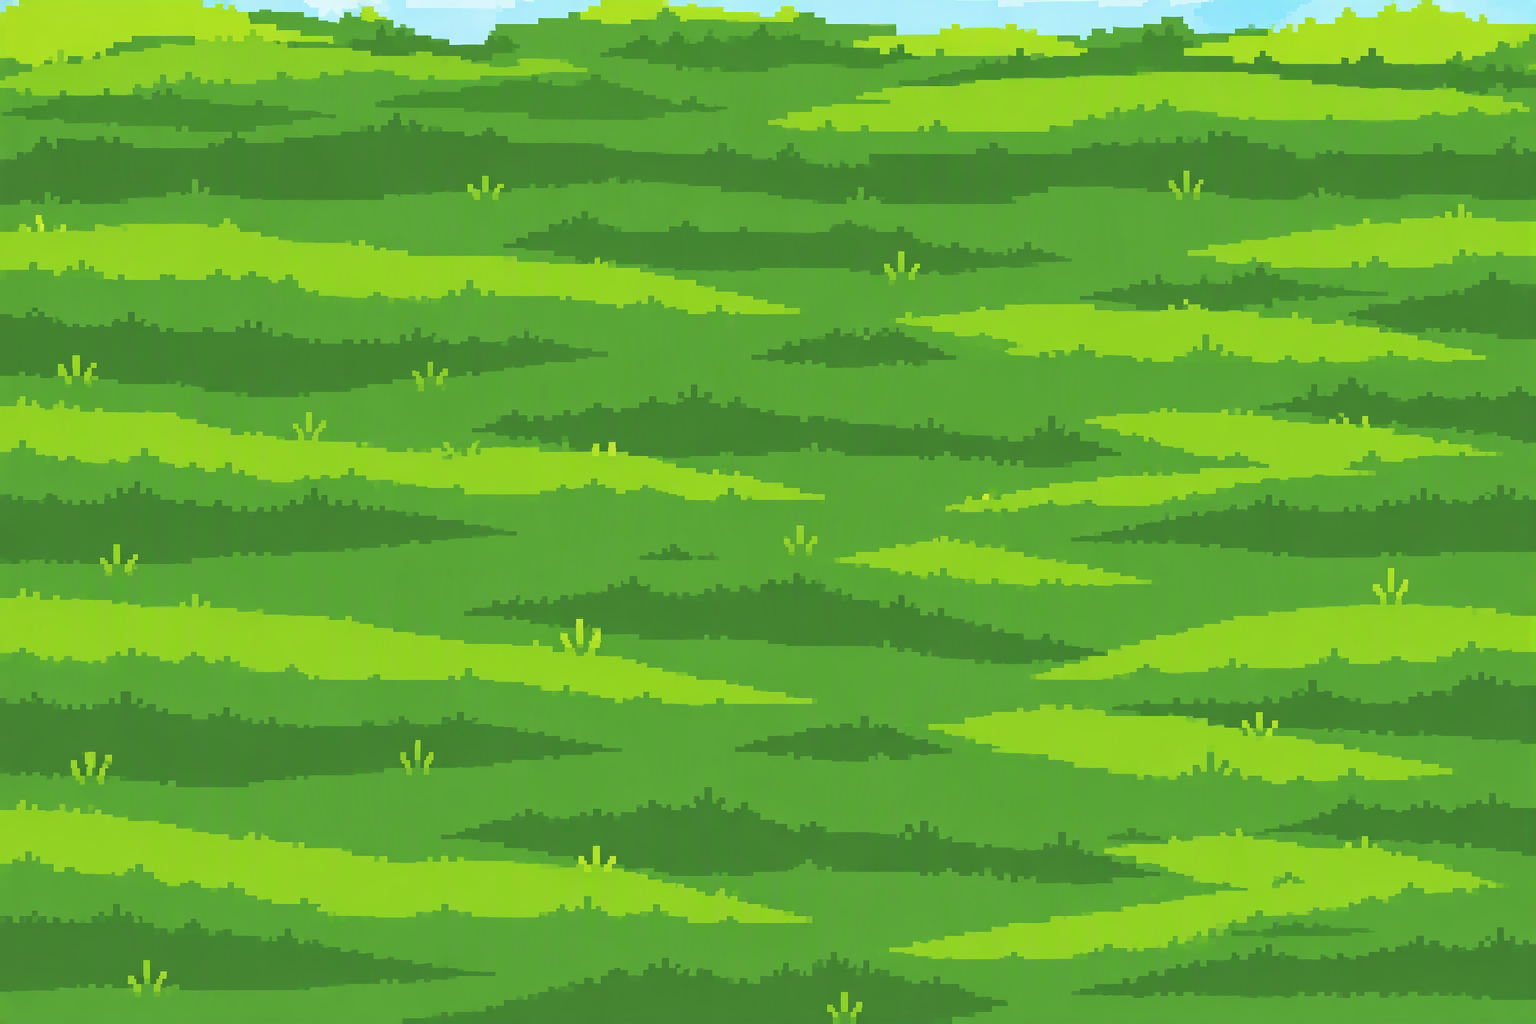
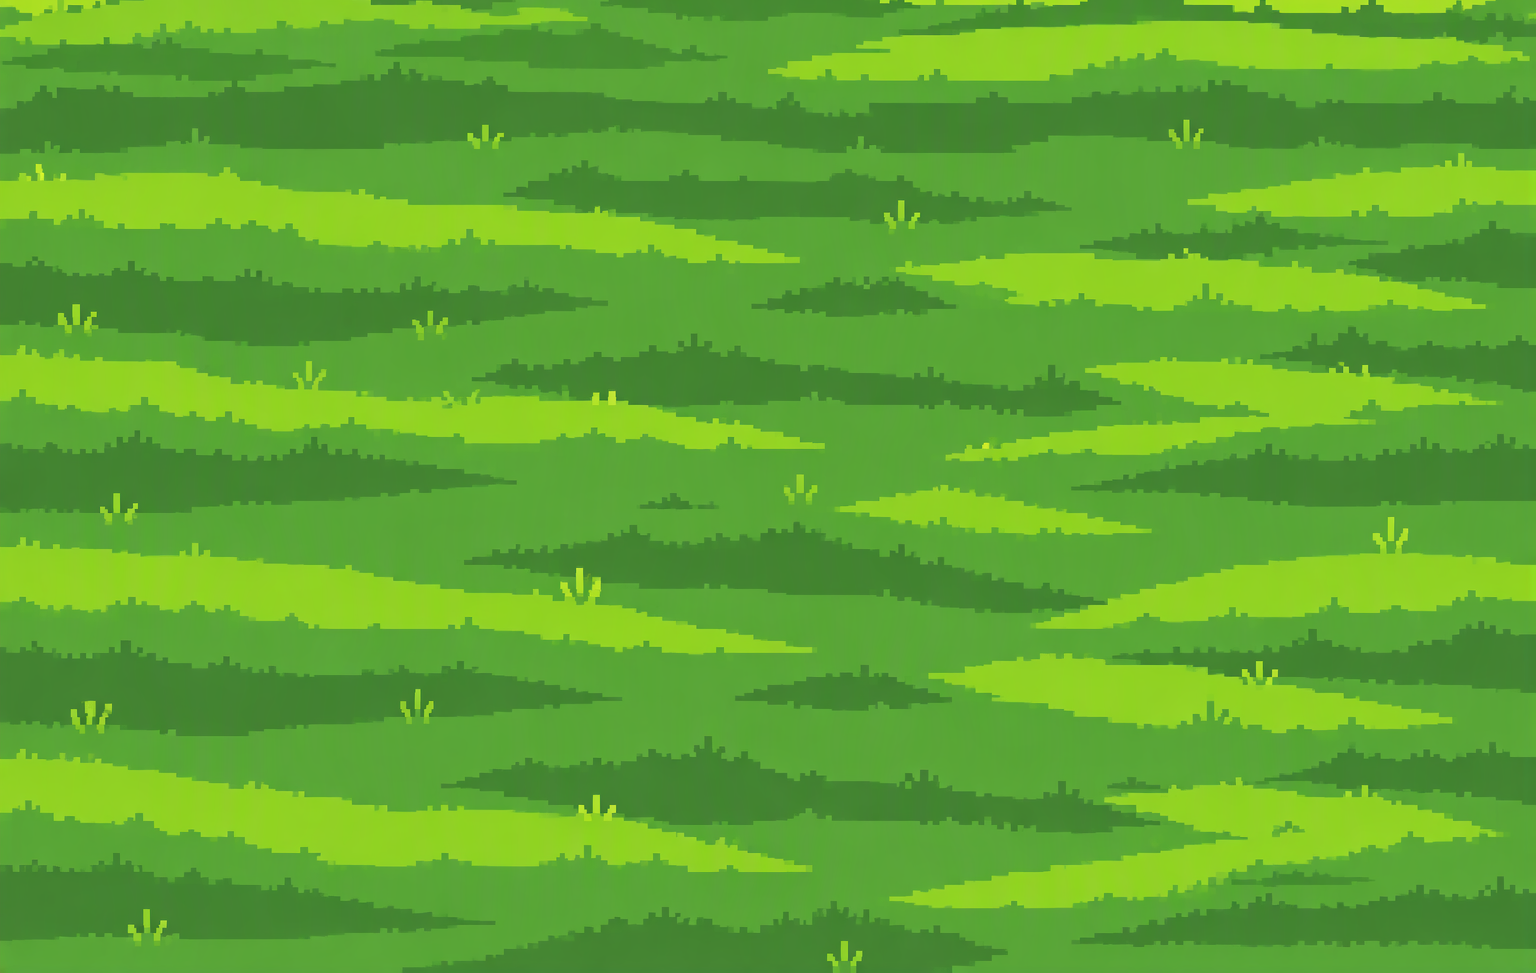
about section done + added profile pic assets

diff --git a/style.css b/style.css
@@ -43,7 +43,7 @@ body {
 
 nav {
     position: fixed;
-    top: 2rem;
+    top: 1.5rem;
     left: 50%;
     transform: translateX(-50%);
 
@@ -116,7 +116,78 @@ nav .logo i {
     color: var(--dark-green);
 }
 
-#hero .hero-desc-text p span.bold {
+span.bold {
+    font-family: var(--heading-font);
     font-weight: 600;
     letter-spacing: 1px;
+}
+
+
+
+
+
+.title {
+    position: relative;
+    top: 1rem;
+    margin: 3rem;
+    /* background-color: cornflowerblue; */
+    text-align: center;
+    font-size: 3rem;
+    font-family: var(--heading-font);
+    color: var(--brown);
+}
+
+
+
+#about {
+    width: 100vw;
+    height: 100vh;
+
+    background-color: var(--light-green);
+    background: url('./assets/grass_new.png');
+
+    padding: 2rem;
+}
+
+#about .about-content {
+    width: 75%;
+    margin: 0 auto;
+    margin-top: 3rem;
+    /* background-color: cornflowerblue; */
+    display: flex;
+    flex-direction: column;
+    gap: 2rem;
+
+    font-size: 1.2rem;
+    color: var(--dark-green);
+}
+
+#about .about-content span.bold {
+    color: var(--brown);
+    font-size: 1.3rem;
+}
+
+#about .about-content .top-row {
+    display: flex;
+    align-items: center;
+    justify-content: space-evenly;
+}
+
+#about .about-content .top-row .top-row-content p {
+    display: flex;
+    flex-direction: column;
+    margin: 0.75rem;
+}
+
+#about .about-content .top-row .profile-img {
+    width: 17rem;
+    height: 17rem;
+    border-radius: 50%;
+    overflow: hidden;
+    border: 5px dashed var(--brown);
+}
+
+#about .about-content .top-row .profile-img img {
+    height: 100%;
+    width: 100%;
 }

diff --git a/index.html b/index.html
@@ -39,7 +39,34 @@
         </section>
 
         <!-- about -->
-        <section id="about"></section>
+        <section id="about">
+            <div class="title">
+                <h1>About</h1>
+            </div>
+
+            <div class="about-content">
+                <div class="top-row">
+                    <div class="profile-img">
+                        <img src="./assets/profile.png" alt="profile image">
+                    </div>
+                    <div class="top-row-content">
+                        <p><span class="bold">Name:</span> Strawberry Skeleton</p>
+                        <p><span class="bold">Age:</span> 18</p>
+                        <p><span class="bold">Status:</span> Year 1 @ CUHK CSE</p>
+                        <p><span class="bold">Interests:</span> Coding / Playing / something</p>
+                    </div>
+                </div>
+
+                <div class="bottom-row">
+                    <p>
+                        <span class="bold">Ultimate Goal:</span>
+                        <br>
+                        Lorem ipsum dolor, sit amet consectetur adipisicing elit. Nam hic exercitationem unde veritatis natus quas repellat deleniti provident. Asperiores similique quibusdam maiores, enim quis ducimus.
+                        Lorem ipsum dolor sit amet consectetur, adipisicing elit. Magni rem, libero dolor hic explicabo iure.
+                    </p>
+                </div>
+            </div>
+        </section>
 
         <!-- map -->
         <section id="map"></section>
